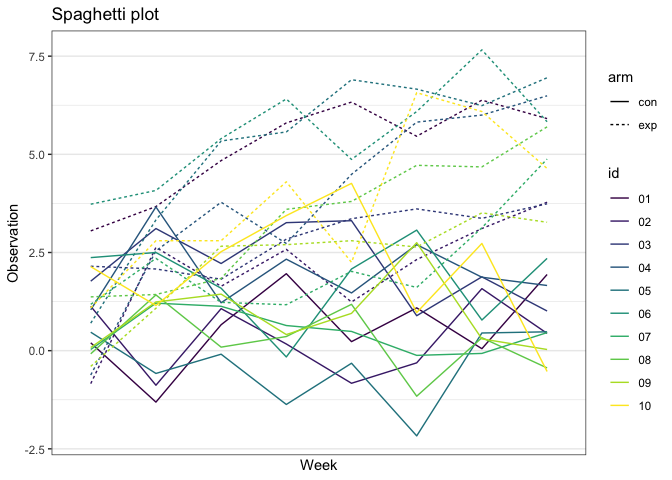
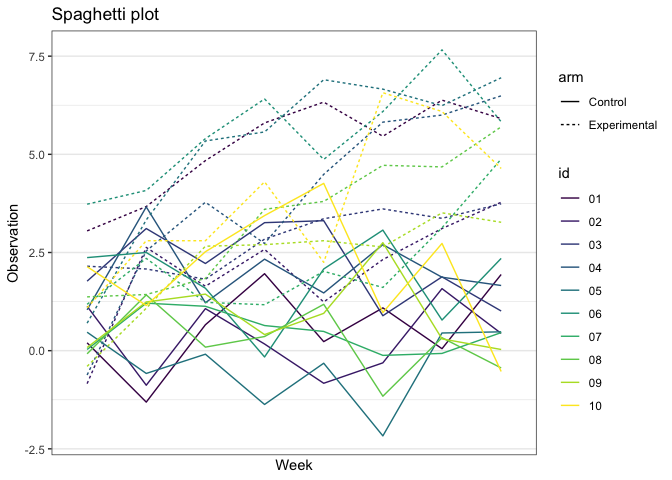
start problem 2

diff --git a/p8105_hw5_kz2334.md b/p8105_hw5_kz2334.md
@@ -96,9 +96,13 @@ study_data %>%
   ) +
   theme_bw() +
   scale_x_discrete(breaks=seq(0, 8, 1)) +
+  scale_linetype_discrete(label = c("Control", "Experimental")) +
   scale_color_viridis(discrete = TRUE)
 ```
 
 <img src="p8105_hw5_kz2334_files/figure-markdown_github/spaghetti plot-1.png" style="display: block; margin: auto;" />
 
 Globally, experimental group has larger observation values than control group. In experimental group, observations increased as time went by. In control group, observations fluctuated within an interval as time went by.
+
+Problem 2
+---------
